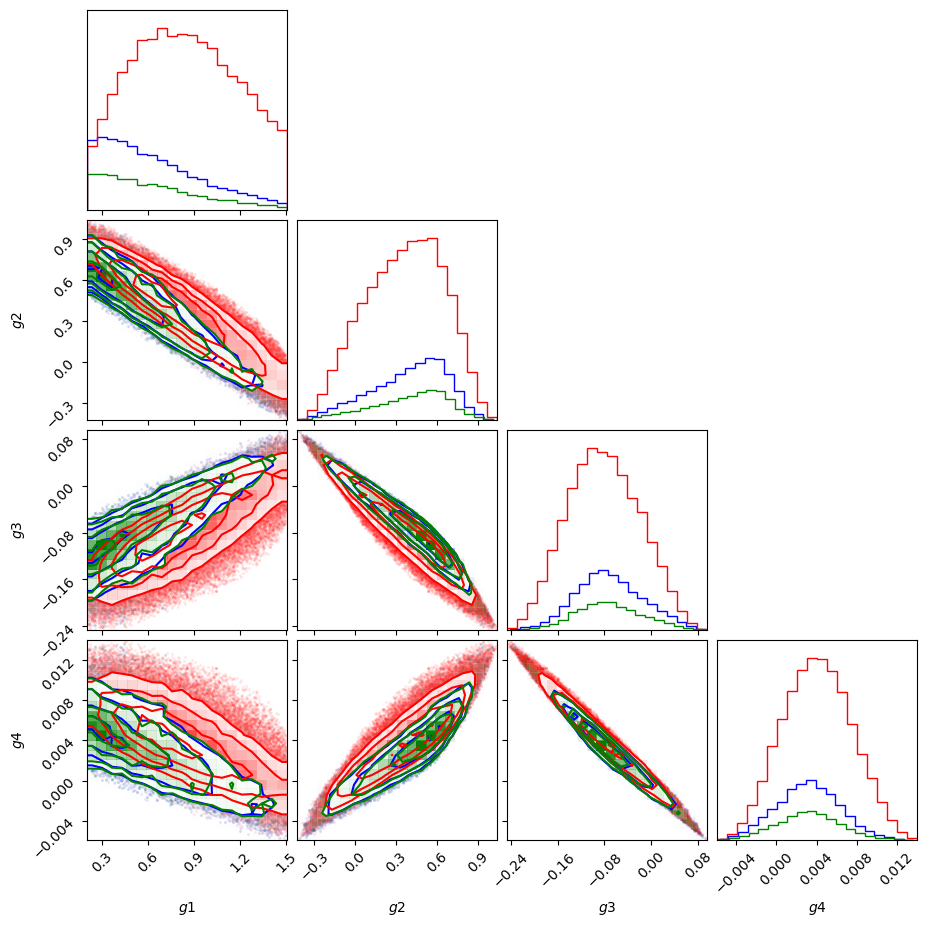
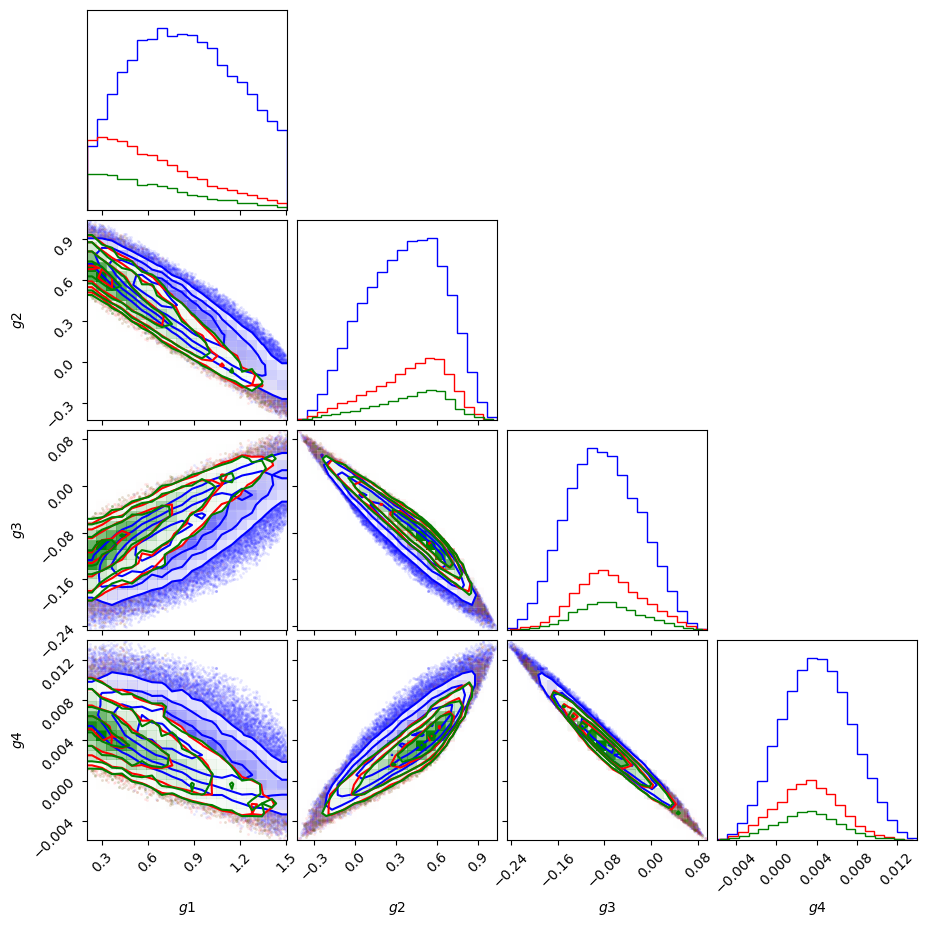
Got new comparison plot, and the corner plot of the distributions.

diff --git a/GWXtreme_merger/LIGO_presentation/multiple_confidence_interval.py b/GWXtreme_merger/LIGO_presentation/multiple_confidence_interval.py
@@ -8,7 +8,7 @@ def plot_intervals(outputfile):
 
     pl.clf()
     
-    Files = ["../data/mr_parametric_data/spectral_p_vs_rho_W10_S100000.txt", "../data/mr_parametric_data/spectral_GW/spectral_p_vs_rho_GW170817.txt", "./new_data/spectral_p_vs_rho_GW_EM_spectral_sampled_confidence.txt"]
+    Files = ["./borrowed_data/spectral_p_vs_rho_W10_S100000.txt", "./new_data/spectral_p_vs_rho_thinned_GW_spectral_confidence.txt", "new_data/spectral_p_vs_rho_GW_EM_spectral_sampled_confidence.txt"]
     labels = ["EM confidence method", "GW confidence method", "merger confidence method"]
     colors = ["blue", "red", "green"]
 
@@ -35,7 +35,7 @@ def corner_plots(outputfile):
 
     pl.clf()
     
-    Files = ["./new_data/thinned_spectral_samples.txt","./borrowed_data/spectral_samples_W10_S100000.txt","./new_data/GW_EM_spectral_sampled_samples.json"]
+    Files = ["./borrowed_data/spectral_samples_W10_S100000.txt","./new_data/thinned_spectral_samples.txt","./new_data/GW_EM_spectral_sampled_samples.json"]
     labels = ["EM source", "GW source", "merger source"] # not sure if we can implement with corner plot...
     colors = ["blue", "red", "green"]
 
